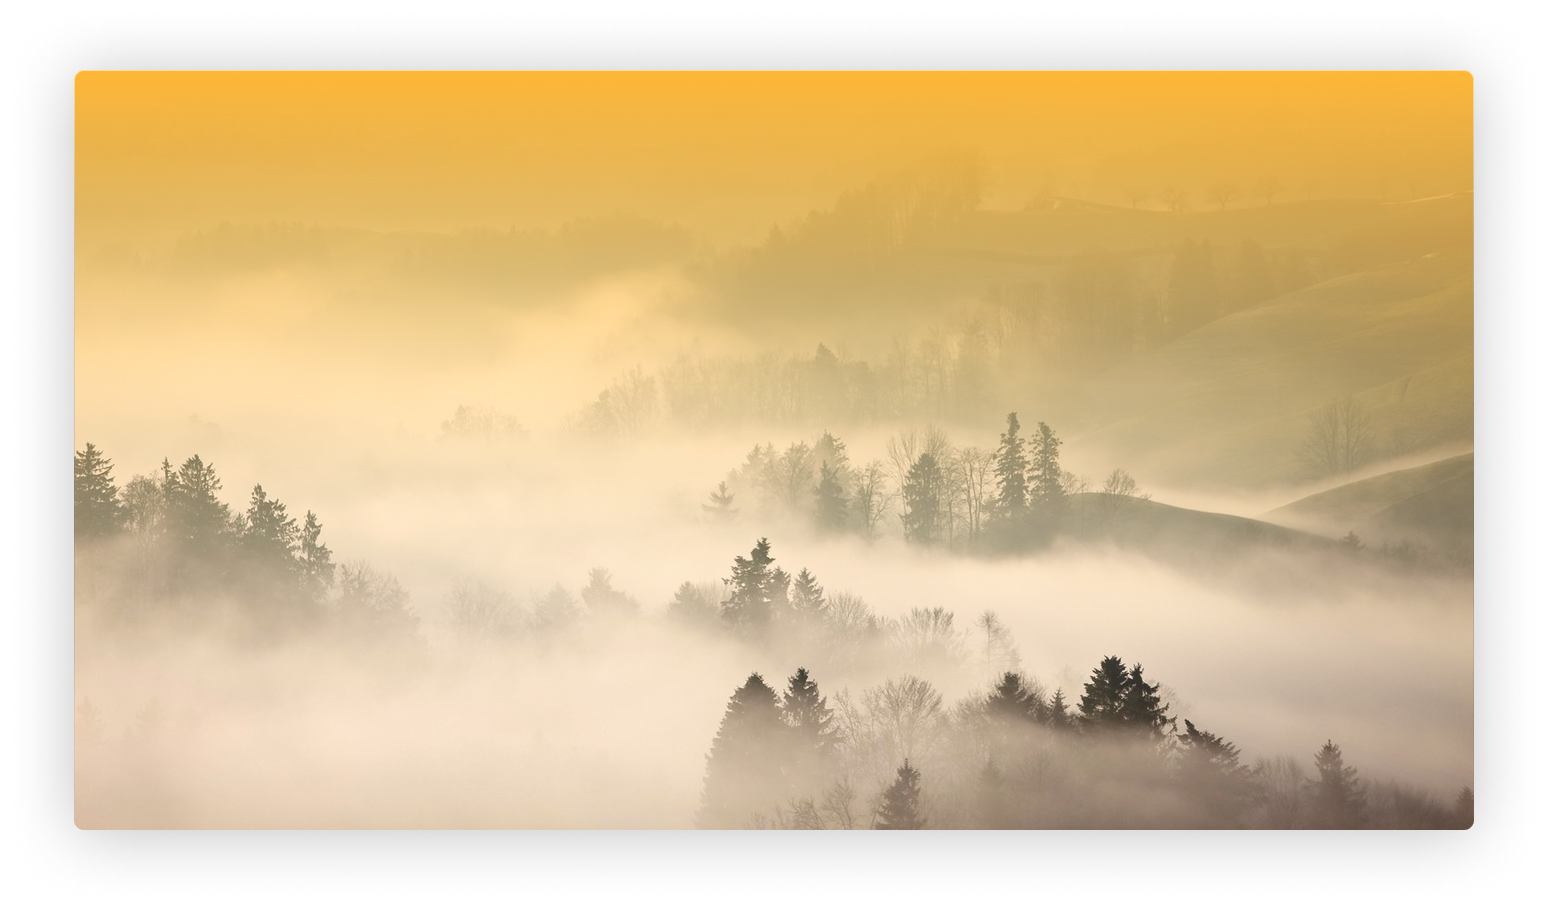
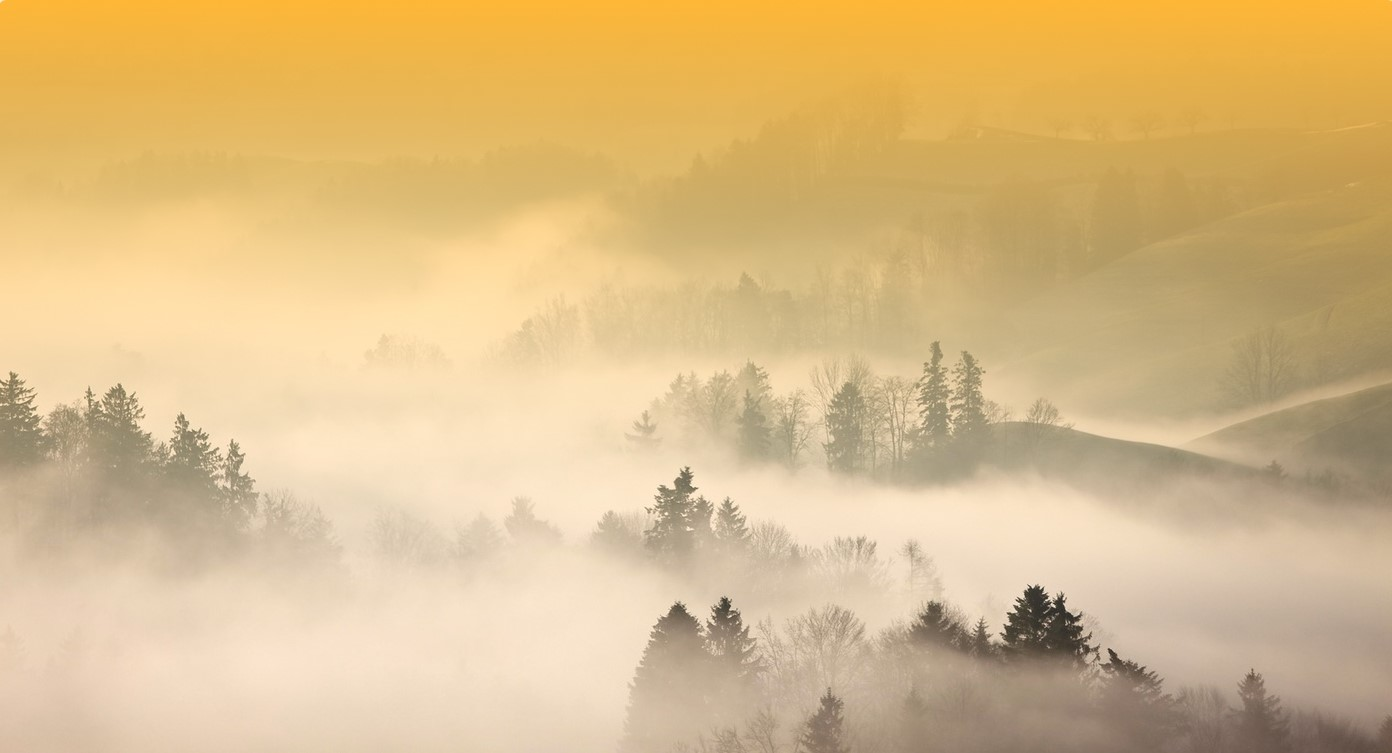
commit

diff --git a/index.html b/index.html
@@ -4,6 +4,9 @@
     <meta charset="UTF-8">
     <meta name="viewport" content="width=device-width, initial-scale=1.0">
     <link rel="stylesheet" href="styles.css">
+    <link rel="preconnect" href="https://fonts.googleapis.com">
+<link rel="preconnect" href="https://fonts.gstatic.com" crossorigin>
+<link href="https://fonts.googleapis.com/css2?family=Cormorant+Garamond&display=swap" rel="stylesheet">
     <title>Document</title>
 </head>
 <body>
@@ -13,21 +16,58 @@
                 <path d="M32 1.35C32 0.54 31.4667 0 30.6667 0H1.33333C0.533333 0 0 0.54 0 1.35V4.05C0 4.86 0.533333 5.4 1.33333 5.4H30.6667C31.4667 5.4 32 4.86 32 4.05V1.35Z" fill="white"/>
                 <path d="M22 12.15C22 11.34 21.6333 10.8 21.0833 10.8H0.916667C0.366667 10.8 0 11.34 0 12.15V14.85C0 15.66 0.366667 16.2 0.916667 16.2H21.0833C21.6333 16.2 22 15.66 22 14.85V12.15Z" fill="white"/>
                 <path d="M32 22.95C32 22.14 31.4667 21.6 30.6667 21.6H1.33333C0.533333 21.6 0 22.14 0 22.95V25.65C0 26.46 0.533333 27 1.33333 27H30.6667C31.4667 27 32 26.46 32 25.65V22.95Z" fill="white"/>
-              </svg>
+            </svg>
         </div>
         <div class="page_header_buttons">
-            <a href="">Sign Up</a>
-            <a href="">Login</a>
+            <a href="" href="">Sign Up</a href="">
+            <a href="" href="">Login</a href="">
         </div>
     </header>
     <div>
         <div class="page_name">
-            <h1>Pexels</h1>
-            <p>Best free stock photos in one place.</p>
+            <h1 class="page_name_h1">Pexels</h1>
+            <p class="page_name_p">Best free stock photos in one place.</p>
         </div>
-        <div class="">
-
+        <div class="page_search">
+            <div class="page_search_input input">
+                <input type="text" placeholder="Search for free photos...">
+            </div>
+        <div class="page_search_offer">
+            <a href="">travel</a>
+            <a href="">fish</a>
+            <a href="">shopping</a >
+            <a href="">house</a >
+            <a href="">healthy</a >
+            <a href="">football</a >
+            <a href="">boat</a >
+            <a href="">flowers</a >
+            <a href="">art</a >
+        </div>
         </div>
     </div>
+    <footer class="page_footer">
+        <div class="page_footer_logo logo">
+            <a href="">
+                <svg xmlns="http://www.w3.org/2000/svg" width="21" height="21" viewBox="0 0 21 21" fill="none">
+                <path d="M17.6699 0H2.75191C1.2321 0 0 1.23173 0 2.75119V17.6654C0 19.1848 1.23205 20.4166 2.75191 20.4166H10.1094L10.1219 13.1208H8.226C7.97961 13.1208 7.77963 12.9216 7.77868 12.6753L7.76959 10.3236C7.76864 10.0759 7.96922 9.87461 8.21696 9.87461H10.1094V7.60223C10.1094 4.96517 11.7204 3.52927 14.0735 3.52927H16.0043C16.2514 3.52927 16.4517 3.7295 16.4517 3.97652V5.95951C16.4517 6.20644 16.2515 6.40662 16.0046 6.40677L14.8196 6.40732C13.54 6.40732 13.2922 7.01524 13.2922 7.9074V9.87465H16.104C16.372 9.87465 16.5798 10.1085 16.5483 10.3745L16.2695 12.7263C16.2428 12.9513 16.0519 13.1209 15.8252 13.1209H13.3047L13.2922 20.4167H17.67C19.1898 20.4167 20.4219 19.1849 20.4219 17.6655V2.75119C20.4218 1.23173 19.1898 0 17.6699 0Z" fill="white"/>
+                </svg>
+            </a>
+            <a href="">
+                <svg xmlns="http://www.w3.org/2000/svg" width="26" height="21" viewBox="0 0 26 21" fill="none">
+                <path d="M24.8758 2.37509C24.3313 2.61692 23.7661 2.80769 23.1861 2.94581C23.8252 2.33757 24.3057 1.57679 24.5767 0.727626C24.6541 0.485204 24.3912 0.275575 24.1727 0.405373C23.3658 0.884712 22.4967 1.24431 21.5894 1.47428C21.5368 1.48763 21.4825 1.49439 21.428 1.49439C21.2627 1.49439 21.102 1.43293 20.9757 1.32138C20.0104 0.469285 18.7689 6.75712e-08 17.4799 6.75712e-08C16.9221 6.75712e-08 16.359 0.087071 15.8061 0.258819C14.093 0.790999 12.7711 2.20634 12.3564 3.95254C12.2008 4.60752 12.1587 5.26309 12.2311 5.90102C12.2394 5.97432 12.2049 6.02549 12.1835 6.04948C12.1461 6.09155 12.0929 6.11567 12.0378 6.11567C12.0316 6.11567 12.0253 6.11537 12.019 6.11477C8.26908 5.76583 4.88754 3.95637 2.49729 1.01978C2.3754 0.869991 2.14166 0.888363 2.04451 1.05526C1.57644 1.85955 1.32908 2.77945 1.32908 3.7155C1.32908 5.15005 1.90452 6.50195 2.90406 7.4875C2.48373 7.38768 2.0769 7.23048 1.69899 7.02025C1.51615 6.91852 1.2912 7.04927 1.28863 7.25872C1.26246 9.38984 2.50822 11.2861 4.37442 12.14C4.33683 12.1409 4.29925 12.1413 4.26161 12.1413C3.96579 12.1413 3.66627 12.1127 3.37147 12.0563C3.16558 12.0169 2.99261 12.2126 3.05654 12.4125C3.66227 14.3066 5.29054 15.7027 7.23907 16.0197C5.62191 17.107 3.73869 17.6805 1.77863 17.6805L1.16758 17.6801C0.979311 17.6801 0.820081 17.803 0.772102 17.9857C0.724841 18.1656 0.811895 18.3553 0.97244 18.4489C3.18111 19.7363 5.70042 20.4167 8.2591 20.4167C10.4988 20.4167 12.5938 19.9715 14.4861 19.0936C16.2207 18.2888 17.7537 17.1383 19.0422 15.6741C20.2426 14.3102 21.1812 12.7357 21.832 10.9944C22.4524 9.33454 22.7803 7.56344 22.7803 5.87253V5.79198C22.7802 5.52048 22.9028 5.26501 23.1167 5.09111C23.9284 4.43104 24.6352 3.65405 25.2175 2.78172C25.3712 2.55139 25.1287 2.26271 24.8758 2.37509Z" fill="white"/>
+            </svg>
+            </a>
+            <a href="">
+                <svg xmlns="http://www.w3.org/2000/svg" width="22" height="21" viewBox="0 0 22 21" fill="none">
+                <path d="M14.9411 0H6.68681C3.3322 0 0.603027 2.72848 0.603027 6.08224V14.3344C0.603027 17.6882 3.3322 20.4167 6.68681 20.4167H14.9411C18.2957 20.4167 21.0249 17.6882 21.0249 14.3344V6.08224C21.0249 2.72848 18.2957 0 14.9411 0ZM18.9705 14.3344C18.9705 16.5592 17.1664 18.3628 14.9411 18.3628H6.68681C4.46149 18.3628 2.65747 16.5592 2.65747 14.3344V6.08224C2.65747 3.85744 4.46149 2.05392 6.68681 2.05392H14.9411C17.1664 2.05392 18.9705 3.85744 18.9705 6.08224V14.3344Z" fill="white"/>
+                <path d="M10.8141 4.92786C7.90165 4.92786 5.53223 7.29667 5.53223 10.2083C5.53223 13.1199 7.90165 15.4888 10.8141 15.4888C13.7265 15.4888 16.0959 13.12 16.0959 10.2083C16.0959 7.29664 13.7265 4.92786 10.8141 4.92786ZM10.8141 13.4349C9.0316 13.4349 7.58667 11.9903 7.58667 10.2083C7.58667 8.42634 9.03164 6.98177 10.8141 6.98177C12.5965 6.98177 14.0414 8.42634 14.0414 10.2083C14.0414 11.9903 12.5965 13.4349 10.8141 13.4349Z" fill="white"/>
+                <path d="M16.1059 6.23282C16.8049 6.23282 17.3715 5.66634 17.3715 4.96754C17.3715 4.26875 16.8049 3.70227 16.1059 3.70227C15.407 3.70227 14.8403 4.26875 14.8403 4.96754C14.8403 5.66634 15.407 6.23282 16.1059 6.23282Z" fill="white"/>
+                </svg>
+            </a>
+        </div>
+        <div class="page_footer_question question">
+            <a href="">Are you a photographer?</a>
+        </div>
+    </footer>
 </body>
 </html>

diff --git a/styles.scss b/styles.scss
@@ -1,9 +1,128 @@
 body {
     margin: 0;
     padding: 0;
-    display: flex;
-    min-height: 100vh;
     background-image: url('img.jpg'); 
     background-repeat: no-repeat;
-    background-size: cover;
+    background-size: 100%;
+}
+
+.page_header {
+    display: flex;
+    justify-content: space-between;
+    &_menu{
+        svg {
+            margin-top: 30px;
+            margin-left: 30px;
+            width: 32ppx;
+            height: 27px;
+        }
+    }
+    &_buttons {
+        margin-top: 36px;
+        margin-right: 59px;
+         a {
+            text-decoration: none;
+            color: #FFF;
+            font-family: Open Sans;
+            font-size: 20px;
+            font-style: normal;
+            font-weight: 400;
+            line-height: normal;
+            border-radius: 50px;
+            border: 1px solid #FFF;
+            padding: 6px 30px;
+        }
+        a:last-child {
+            margin-left: 60px;
+        }
+    }
+}
+.page_name {
+    &_h1 {
+        text-align: center;
+        margin-top: 109px;
+        color: #FFF;
+        font-family: Open Sans;
+        font-size: 100px;
+        font-style: normal;
+        font-weight: 800;
+        line-height: normal;
+        text-transform: uppercase;
+    }
+    &_p {
+        text-align: center;
+        color: #FFF;
+        font-family: Open Sans;
+        font-size: 20px;
+        font-style: normal;
+        font-weight: 400;
+        line-height: normal;
+        margin-top: -70px;
+    }
+}
+.page_search {
+    input[type=text] {
+        display: flex;
+        align-items: center;
+        margin-inline: auto;
+        border-radius: 80px;
+        background: #FFF;
+        box-shadow: 0px 4px 30px 0px rgba(0, 0, 0, 0.25);
+        width: 655px;
+        height: 70px;
+        flex-shrink: 0;
+        border: none;
+    }
+    input[type=text]::placeholder {
+        color: rgba(189, 189, 189, 0.80);
+        font-family: Open Sans;
+        font-size: 20px;
+        font-style: normal;
+        font-weight: 400;
+        line-height: normal;
+        padding-left: 20px;
+    }
+    input[type=text]:focus {
+        outline: none;
+        border: none;
+    }
+    &_offer {
+        margin-left: 446px;
+        margin-top: 20px;
+        a {  
+            padding: 10px;
+            text-decoration: none;
+            color: #FFF;
+            font-family: Open Sans;
+            font-size: 20px;
+            font-style: normal;
+            font-weight: 400;
+            line-height: normal; 
+        }
+    }
+}
+.page_footer{
+    .logo {
+        position: absolute;
+        width: 87px;
+        display: flex;
+        justify-content: space-between;
+        margin-left: 30px;
+        bottom: 20px;
+    }
+    
+}
+.question {
+    a {
+        text-decoration: none;
+        color: #FFF;
+        font-family: Open Sans;
+        font-size: 15px;
+        font-style: normal;
+        font-weight: 400;
+        line-height: normal;
+    }
+    position: absolute;
+    right: 30px;
+    bottom: 20px;
 }

diff --git a/styles.css b/styles.css
@@ -1,9 +1,132 @@
 body {
   margin: 0;
   padding: 0;
-  display: flex;
-  min-height: 100vh;
   background-image: url("img.jpg");
   background-repeat: no-repeat;
-  background-size: cover;
+  background-size: 100%;
+}
+
+.page_header {
+  display: flex;
+  justify-content: space-between;
+}
+.page_header_menu svg {
+  margin-top: 30px;
+  margin-left: 30px;
+  width: 32ppx;
+  height: 27px;
+}
+.page_header_buttons {
+  margin-top: 36px;
+  margin-right: 59px;
+}
+.page_header_buttons a {
+  text-decoration: none;
+  color: #FFF;
+  font-family: Open Sans;
+  font-size: 20px;
+  font-style: normal;
+  font-weight: 400;
+  line-height: normal;
+  border-radius: 50px;
+  border: 1px solid #FFF;
+  padding: 6px 30px;
+}
+.page_header_buttons a:last-child {
+  margin-left: 60px;
+}
+
+.page_name_h1 {
+  text-align: center;
+  margin-top: 109px;
+  color: #FFF;
+  font-family: Open Sans;
+  font-size: 100px;
+  font-style: normal;
+  font-weight: 800;
+  line-height: normal;
+  text-transform: uppercase;
+}
+.page_name_p {
+  text-align: center;
+  color: #FFF;
+  font-family: Open Sans;
+  font-size: 20px;
+  font-style: normal;
+  font-weight: 400;
+  line-height: normal;
+  margin-top: -70px;
+}
+
+.page_search input[type=text] {
+  display: flex;
+  align-items: center;
+  margin-inline: auto;
+  border-radius: 80px;
+  background: #FFF;
+  box-shadow: 0px 4px 30px 0px rgba(0, 0, 0, 0.25);
+  width: 655px;
+  height: 70px;
+  flex-shrink: 0;
+  border: none;
+}
+.page_search input[type=text]::-moz-placeholder {
+  color: rgba(189, 189, 189, 0.8);
+  font-family: Open Sans;
+  font-size: 20px;
+  font-style: normal;
+  font-weight: 400;
+  line-height: normal;
+  padding-left: 20px;
+}
+.page_search input[type=text]::placeholder {
+  color: rgba(189, 189, 189, 0.8);
+  font-family: Open Sans;
+  font-size: 20px;
+  font-style: normal;
+  font-weight: 400;
+  line-height: normal;
+  padding-left: 20px;
+}
+.page_search input[type=text]:focus {
+  outline: none;
+  border: none;
+}
+.page_search_offer {
+  margin-left: 446px;
+  margin-top: 20px;
+}
+.page_search_offer a {
+  padding: 10px;
+  text-decoration: none;
+  color: #FFF;
+  font-family: Open Sans;
+  font-size: 20px;
+  font-style: normal;
+  font-weight: 400;
+  line-height: normal;
+}
+
+.page_footer .logo {
+  position: absolute;
+  width: 87px;
+  display: flex;
+  justify-content: space-between;
+  margin-left: 30px;
+  bottom: 20px;
+}
+
+.question {
+  position: absolute;
+  right: 30px;
+  bottom: 20px;
+}
+.question a {
+  text-decoration: none;
+  color: #FFF;
+  font-family: Open Sans;
+  font-size: 15px;
+  font-style: normal;
+  font-weight: 400;
+  line-height: normal;
 }/*# sourceMappingURL=styles.css.map */
